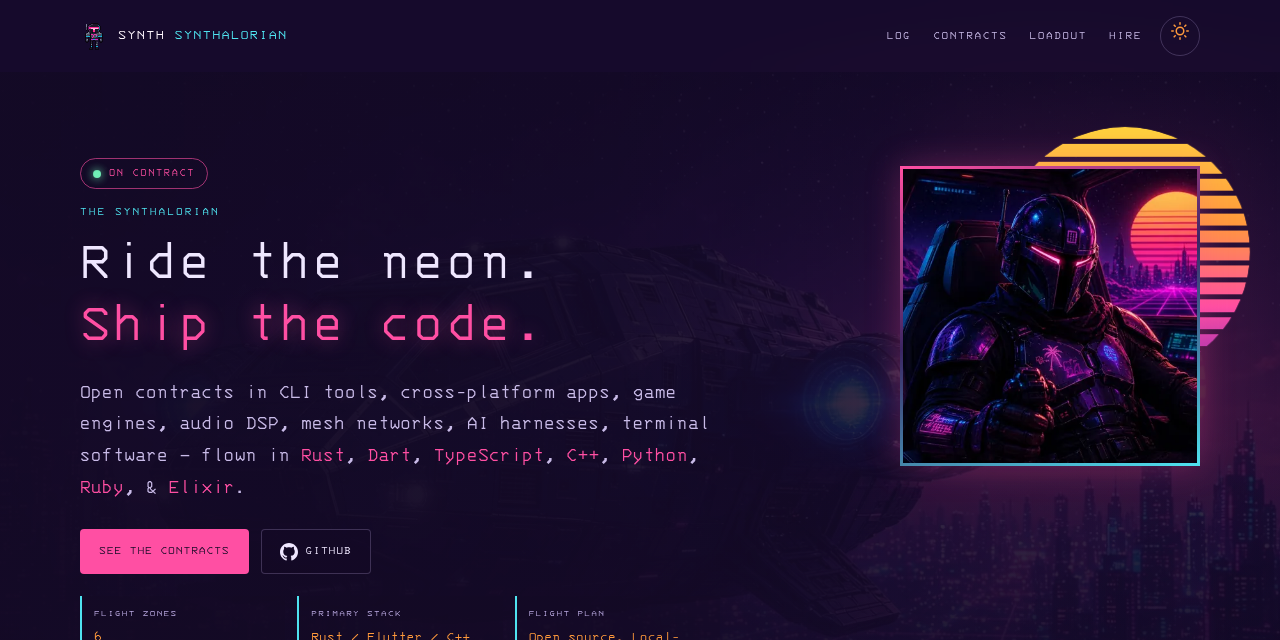
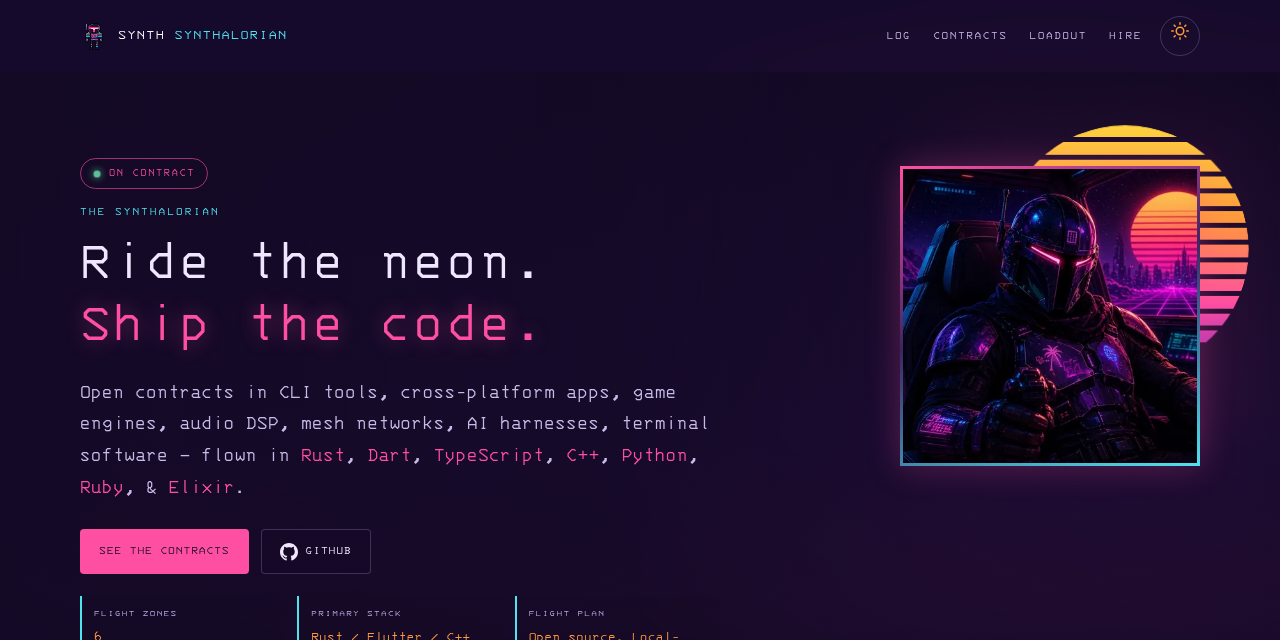
Drop the gunship cover and the art credit
- Hero sky is a purple gradient (daybreak: lavender) under the existing
  scrim, with the striped sunset and scrolling grid; the gunship cover and
  its four image files are gone.
- Remove the art credit line from the footer and 404, and its CSS rule.
- README preview re-shot without the cover; stylesheet cache-bust bumped.

diff --git a/css/style.css b/css/style.css
@@ -758,7 +758,7 @@ html[data-theme="daybreak"] .hero-vignette {
 }
 
 /* =========================================================
-   Synthwave '84 layer: gunship cover, sunset, perspective grid,
+   Synthwave '84 layer: purple sky, sunset, perspective grid,
    the cockpit avatar and the pixel synthalorian. Decorative
    layers are absolutely positioned (no layout shift); motion is
    transform-only and stops under prefers-reduced-motion.
@@ -775,9 +775,13 @@ strong, b { font-weight: 400; color: var(--text-bright); }
 .nav-sigil img { width: 100%; height: 100%; display: block; image-rendering: pixelated; }
 .logo-text span { color: var(--accent-2); }
 
-.hero-sky { position: absolute; inset: 0; overflow: hidden; pointer-events: none; }
-.hero-sky picture, .hero-sky img { position: absolute; inset: 0; width: 100%; height: 100%; object-fit: cover; object-position: 60% 40%; }
-.hero-sky img { opacity: 0.5; }
+.hero-sky {
+  position: absolute;
+  inset: 0;
+  overflow: hidden;
+  pointer-events: none;
+  background: linear-gradient(180deg, #140a26 0%, #2a0f4a 52%, #5a1659 76%, #140a26 100%);
+}
 .hero-sky::before {
   content: "";
   position: absolute;
@@ -787,7 +791,7 @@ strong, b { font-weight: 400; color: var(--text-bright); }
     linear-gradient(90deg, rgba(20, 10, 38, 0.96) 0%, rgba(20, 10, 38, 0.9) 48%, rgba(20, 10, 38, 0.5) 100%),
     linear-gradient(180deg, rgba(20, 10, 38, 0) 50%, rgba(20, 10, 38, 0.92) 100%);
 }
-html[data-theme="daybreak"] .hero-sky img { opacity: 0.22; }
+html[data-theme="daybreak"] .hero-sky { background: linear-gradient(180deg, #f7f3fd 0%, #f1e6fb 60%, #fbe3ef 82%, #f7f3fd 100%); }
 html[data-theme="daybreak"] .hero-sky::before {
   background: linear-gradient(90deg, rgba(247, 243, 253, 0.97) 0%, rgba(247, 243, 253, 0.92) 50%, rgba(247, 243, 253, 0.6) 100%);
 }
@@ -857,7 +861,6 @@ html[data-theme="daybreak"] .hero-title .line-accent { text-shadow: none; }
 .company-flag img { display: block; width: 72px; height: 63px; image-rendering: pixelated; }
 
 .footer-sprite { display: block; width: 64px; height: 64px; margin: 0 auto 14px; image-rendering: pixelated; }
-.art-credit { margin: 10px 0 0; font-size: 0.78rem; color: var(--text-muted); }
 .corner-sprite { width: 64px; height: 64px; }
 .pixel { image-rendering: pixelated; }
 

diff --git a/index.html b/index.html
@@ -6,7 +6,7 @@
   <title>Synth | The Synthalorian</title>
   <meta name="description" content="Portfolio of Synth, the synthalorian. Open-source contracts in Rust, Dart, TypeScript, C++, Python, Ruby, and Elixir. CLI tools, apps, games, audio DSP, mesh networking, and AI harnesses.">
   <link rel="preload" href="/fonts/3270-nerd-font.woff2" as="font" type="font/woff2" crossorigin>
-  <link rel="stylesheet" href="css/style.css?v=sw84b">
+  <link rel="stylesheet" href="css/style.css?v=sw84c">
   <meta name="theme-color" content="#140a26">
   <link rel="icon" href="/favicon.svg" type="image/svg+xml">
   <link rel="apple-touch-icon" href="/apple-touch-icon.png">
@@ -57,11 +57,6 @@
   <header class="hero">
     <div class="hero-scene" aria-hidden="true">
       <div class="hero-sky">
-        <picture>
-          <source media="(max-width: 900px)" srcset="/img/cover-gunship-768.webp" type="image/webp">
-          <source srcset="/img/cover-gunship-1280.webp" type="image/webp">
-          <img src="/img/cover-gunship-1280.jpg" width="1280" height="720" alt="" decoding="async">
-        </picture>
         <span class="hero-grid-floor"></span>
       </div>
       <div class="hero-noise"></div>
@@ -464,7 +459,6 @@
         <span>&copy; 2026 synthalorian</span>
         <a href="https://github.com/synthalorian/synthalorian.github.io" target="_blank" rel="noopener">Source</a>
       </p>
-      <p class="art-credit">AI-assisted art: avatar, gunship cover and pixel sprite.</p>
     </div>
   </footer>
 

diff --git a/404.html b/404.html
@@ -6,7 +6,7 @@
   <meta name="robots" content="noindex">
   <title>Lost signal | Synth</title>
   <link rel="preload" href="/fonts/3270-nerd-font.woff2" as="font" type="font/woff2" crossorigin>
-  <link rel="stylesheet" href="/css/style.css?v=sw84b">
+  <link rel="stylesheet" href="/css/style.css?v=sw84c">
   <meta name="theme-color" content="#140a26">
   <link rel="icon" href="/favicon.svg" type="image/svg+xml">
   <link rel="apple-touch-icon" href="/apple-touch-icon.png">
@@ -19,7 +19,6 @@
       <h1 style="font-size:clamp(2.2rem,6vw,4rem);margin:0">Lost signal, pilot.</h1>
       <p style="max-width:46ch;margin:0;color:var(--text-secondary)">This sector of the grid is empty. The page was never built, or it has moved on. Plot a course home.</p>
       <p style="margin:.5rem 0 0"><a class="btn btn-primary" href="/">Back to home base</a></p>
-      <p class="art-credit">AI-assisted art: pixel sprite.</p>
     </div>
   </main>
   <button type="button" class="corner-sprite" data-sprite-base="/img/sprite/" aria-label="The pixel synthalorian. Press to make him walk."><picture><source media="(prefers-reduced-motion: reduce)" srcset="/img/sprite/synthalorian-64.png"><img src="/img/sprite/synthalorian-idle-64.gif" width="64" height="64" alt="" decoding="async"></picture></button>

diff --git a/README.md b/README.md
@@ -21,10 +21,7 @@ Knight A, the Blackshield Company mascot, appears only beside the Blackshield Co
 - `js/sprite.js` — the corner synthalorian (idle, walk on hover/focus/click)
 - `fonts/3270-nerd-font.woff2` — self-hosted 3270 Nerd Font (Nerd Fonts v3.5.1, Latin subset), license in `fonts/3270-NERD-FONT-LICENSE.txt`
 - `img/synthalorian-avatar-*.{webp,jpg}` — cockpit avatar, 460 and 920 px
-- `img/cover-gunship-*.{webp,jpg}` — gunship cover behind the hero, 768 and 1280 px
 - `img/og-synthalorian.jpg` — 1200×630 share card
 - `img/sprite/` — pixel synthalorian: idle and walk GIFs, static PNGs
 - `img/knight/` — Knight A animated SVGs (Blackshield Company mascot)
 - `favicon.svg`, `apple-touch-icon.png` — the synthalorian
-
-The avatar, gunship cover and pixel sprite are AI-assisted art, credited in the footer.
